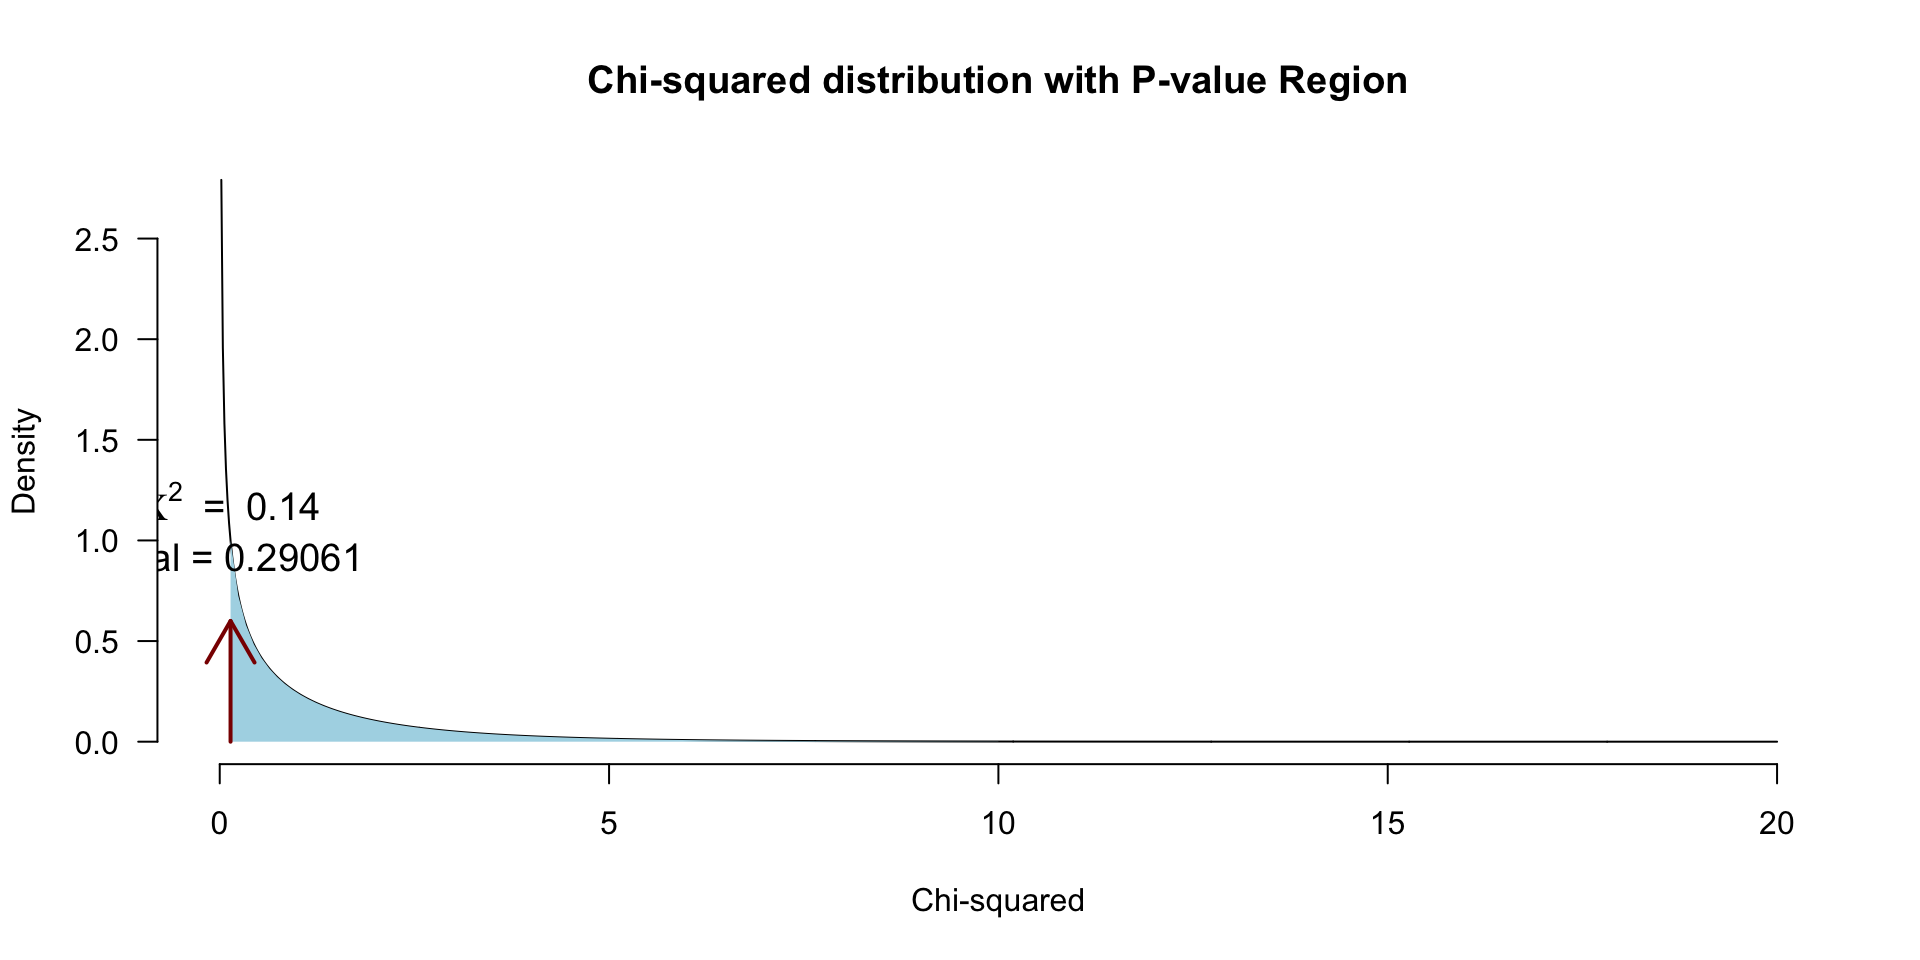
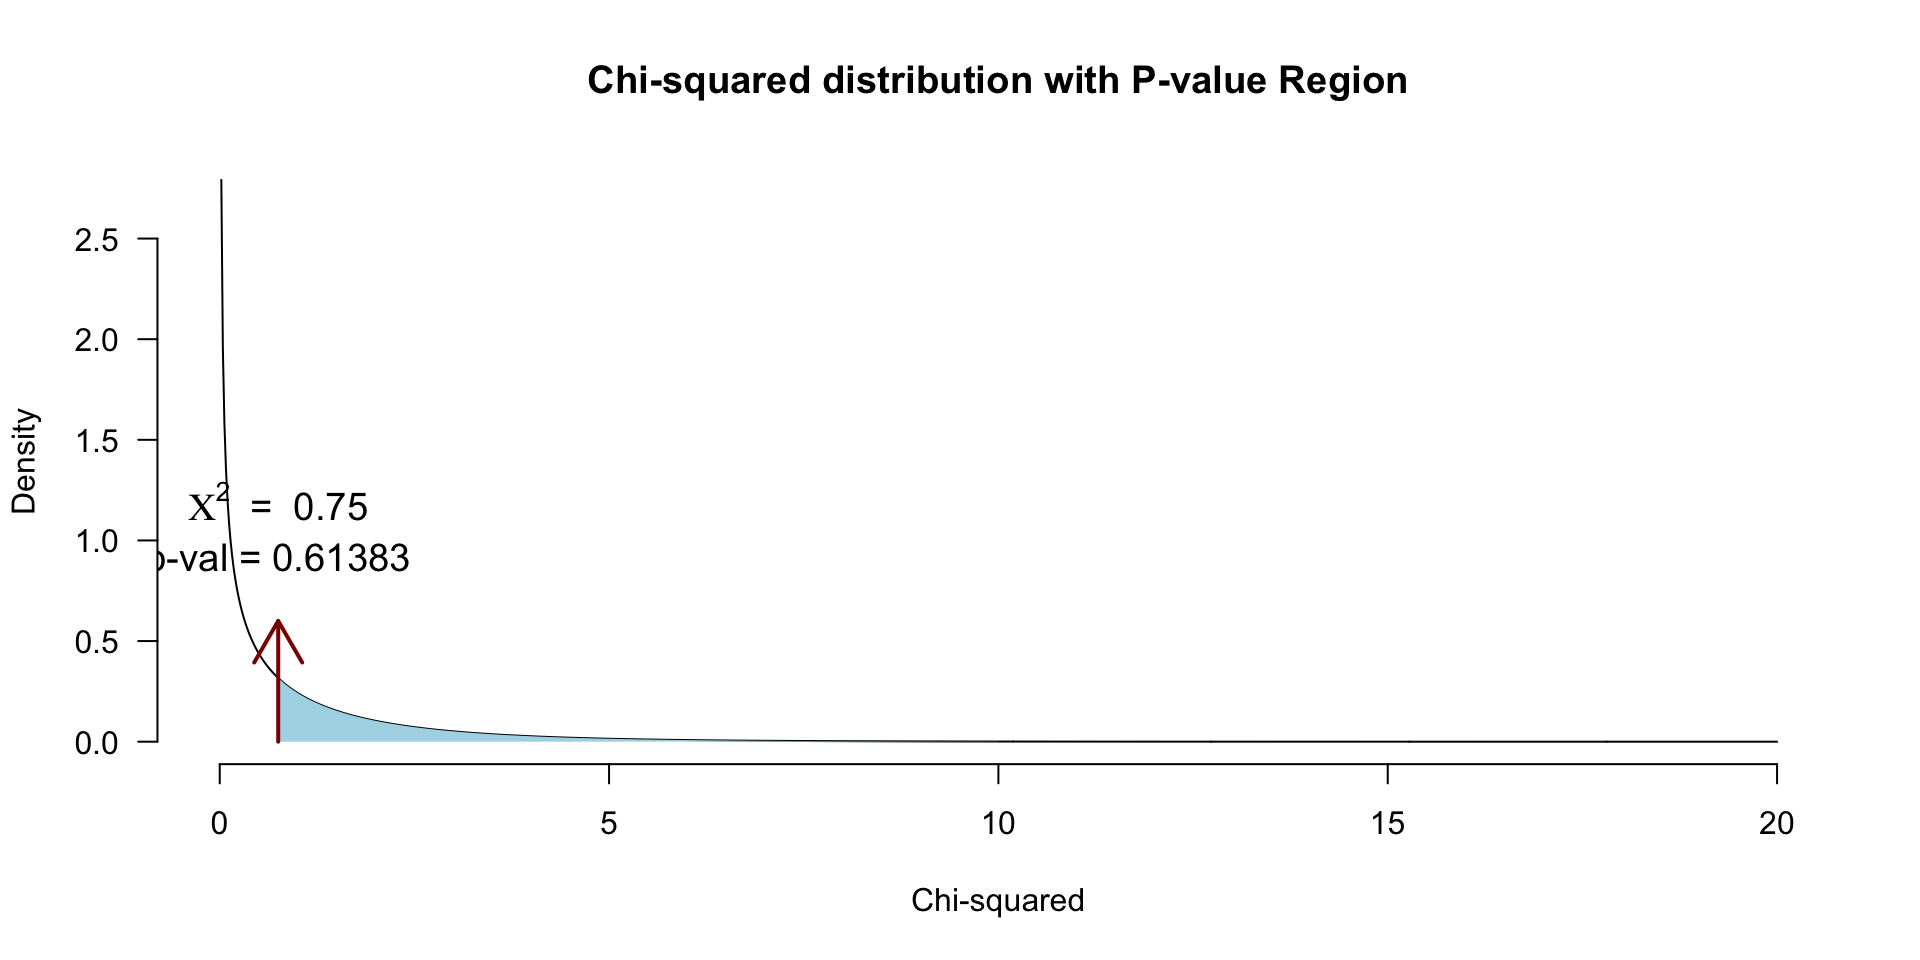
updte with data

Changed region(s): [[0.0625, 0.5, 0.2188, 0.7812]]

diff --git a/SSR/2024/16. chi_squared_test/16. chi_squared_test.slide.html b/SSR/2024/16. chi_squared_test/16. chi_squared_test.slide.html
@@ -486,8 +486,8 @@ Sharon Kinkenberg &amp; Johnny van Doorn
 <div class="cell">
 <div class="cell-output-display">
 
-<div class="datatables html-widget html-fill-item" id="htmlwidget-256e02cc640651b333cf" style="width:100%;height:auto;"></div>
-<script type="application/json" data-for="htmlwidget-256e02cc640651b333cf">{"x":{"filter":"none","vertical":false,"data":[["1","2","3","4","5"],["Dogs","Cats","Other","Dogs","Other"],["Live","Digital","Digital","Live","Digital"],["Introvert","Introvert","Extrovert","Extrovert","Introvert"]],"container":"<table class=\"display\">\n  <thead>\n    <tr>\n      <th> <\/th>\n      <th>Animal<\/th>\n      <th>Lecture<\/th>\n      <th>Personality<\/th>\n    <\/tr>\n  <\/thead>\n<\/table>","options":{"columnDefs":[{"orderable":false,"targets":0},{"name":" ","targets":0},{"name":"Animal","targets":1},{"name":"Lecture","targets":2},{"name":"Personality","targets":3}],"order":[],"autoWidth":false,"orderClasses":false}},"evals":[],"jsHooks":[]}</script>
+<div class="datatables html-widget html-fill-item" id="htmlwidget-37dd03dca93cd56a21a1" style="width:100%;height:auto;"></div>
+<script type="application/json" data-for="htmlwidget-37dd03dca93cd56a21a1">{"x":{"filter":"none","vertical":false,"data":[["1","2","3","4","5","6","7","8","9","10","11","12","13","14","15","16","17","18","19","20","21","22","23","24","25","26","27","28","29","30","31","32","33","34","35","36","37","38","39","40","41","42","43","44","45","46","47","48","49","50","51","52","53","54","55","56","57","58","59","60","61","62","63","64","65","66","67","68","69","70","71","72","73","74","75","76","77","78","79","80","81","82","83","84","85","86","87","88","89","90","91","92","93","94","95","96","97","98","99","100","101","102"],["Dogs","Other","Cats","Dogs","Dogs","Cats","Dogs","Dogs","Dogs","Other","Dogs","Cats","Dogs","Cats","Cats","Cats","Cats","Cats","Dogs","Cats","Cats","Cats","Dogs","Dogs","Dogs","Dogs","Dogs","Dogs","Dogs","Cats","Cats","Dogs","Cats","Cats","Cats","Cats","Cats","Cats","Dogs","Dogs","Cats","Dogs","Cats","Dogs","Other","Cats","Cats","Dogs","Dogs","Cats","Cats","Cats","Dogs","Cats","Dogs","Cats","Cats","Cats","Dogs","Dogs","Dogs","Cats","Dogs","Cats","Dogs","Other","Cats","Other","Cats","Cats","Dogs","Cats","Dogs","Cats","Dogs","Dogs","Dogs","Dogs","Other","Dogs","Cats","Dogs","Dogs","Cats","Dogs","Dogs","Cats","Dogs","Dogs","Dogs","Cats","Cats","Cats","Cats","Dogs","Dogs","Cats","Cats","Dogs","Other","Dogs","Dogs"],["Live","Live","Live","Live","Live","Live","Live","Live","Live","Live","Live","Live","Live","Live","Live","Live","Digital","Digital","Live","Live","Digital","Live","Live","Live","Live","Live","Live","Digital","Live","Live","Live","Digital","Live","Live","Live","Live","Digital","Live","Digital","Digital","Live","Digital","Live","Live","Live","Digital","Live","Digital","Digital","Digital","Digital","Digital","Live","Live","Digital","Live","Digital","Digital","Digital","Live","Digital","Live","Live","Live","Live","Live","Digital","Digital","Digital","Live","Digital","Digital","Digital","Live","Live","Digital","Digital","Live","Live","Live","Live","Digital","Digital","Digital","Digital","Digital","Digital","Live","Digital","Digital","Digital","Digital","Digital","Live","Digital","Digital","Live","Digital","Digital","Digital","Digital","Digital"],["Introvert","Introvert","Introvert","Extrovert","Introvert","Introvert","Introvert","Extrovert","Extrovert","Extrovert","Extrovert","Introvert","Extrovert","Extrovert","Introvert","Introvert","Introvert","Extrovert","Extrovert","Introvert","Introvert","Introvert","Introvert","Introvert","Extrovert","Introvert","Extrovert","Introvert","Introvert","Introvert","Introvert","Introvert","Introvert","Introvert","Extrovert","Introvert","Introvert","Introvert","Extrovert","Extrovert","Extrovert","Extrovert","Introvert","Introvert","Extrovert","Introvert","Extrovert","Introvert","Extrovert","Introvert","Extrovert","Introvert","Extrovert","Introvert","Extrovert","Introvert","Extrovert","Introvert","Extrovert","Extrovert","Introvert","Introvert","Extrovert","Introvert","Introvert","Introvert","Extrovert","Introvert","Introvert","Extrovert","Introvert","Introvert","Introvert","Extrovert","Introvert","Extrovert","Extrovert","Introvert","Extrovert","Introvert","Extrovert","Introvert","Introvert","Extrovert","Introvert","Extrovert","Extrovert","Introvert","Extrovert","Extrovert","Extrovert","Introvert","Introvert","Introvert","Introvert","Extrovert","Extrovert","Introvert","Extrovert","Extrovert","Introvert","Extrovert"]],"container":"<table class=\"display\">\n  <thead>\n    <tr>\n      <th> <\/th>\n      <th>Animal<\/th>\n      <th>Lecture<\/th>\n      <th>Personality<\/th>\n    <\/tr>\n  <\/thead>\n<\/table>","options":{"columnDefs":[{"orderable":false,"targets":0},{"name":" ","targets":0},{"name":"Animal","targets":1},{"name":"Lecture","targets":2},{"name":"Personality","targets":3}],"order":[],"autoWidth":false,"orderClasses":false}},"evals":[],"jsHooks":[]}</script>
 </div>
 </div>
 </small><p><small></small></p>
@@ -500,11 +500,11 @@ Sharon Kinkenberg &amp; Johnny van Doorn
 <div class="cell-output cell-output-stdout">
 <pre><code>         Personality
 Lecture   Extrovert Introvert
-  Digital         1         2
-  Live            1         1</code></pre>
+  Digital        22        24
+  Live           22        34</code></pre>
 </div>
 </div>
-<p><span class="math inline">\(\text{observed}_{ij} = \begin{pmatrix} 1 &amp; 2 \\ 1 &amp; 1 \\ \end{pmatrix}\)</span></p>
+<p><span class="math inline">\(\text{observed}_{ij} = \begin{pmatrix} 22 &amp; 24 \\ 22 &amp; 34 \\ \end{pmatrix}\)</span></p>
 </section>
 <section id="calculating-the-model" class="slide level2 subsection">
 <h2>Calculating the model</h2>
@@ -520,9 +520,9 @@ Lecture   Extrovert Introvert
 <div class="cell-output cell-output-stdout">
 <pre><code>         Personality
 Lecture   Extrovert Introvert Sum
-  Digital         1         2   3
-  Live            1         1   2
-  Sum             2         3   5</code></pre>
+  Digital        22        24  46
+  Live           22        34  56
+  Sum            44        58 102</code></pre>
 </div>
 </div>
 </section>
@@ -541,11 +541,11 @@ Lecture   Extrovert Introvert Sum
 <div class="cell-output cell-output-stdout">
 <pre><code>         Personality
 Lecture   Extrovert Introvert
-  Digital       1.2       1.8
-  Live          0.8       1.2</code></pre>
+  Digital  19.84314  26.15686
+  Live     24.15686  31.84314</code></pre>
 </div>
 </div>
-<p><span class="math inline">\(\text{model}_{ij} = \begin{pmatrix} 1.2 &amp; 1.8 \\ 0.8 &amp; 1.2 \\ \end{pmatrix}\)</span></p>
+<p><span class="math inline">\(\text{model}_{ij} = \begin{pmatrix} 19.8431373 &amp; 26.1568627 \\ 24.1568627 &amp; 31.8431373 \\ \end{pmatrix}\)</span></p>
 </section>
 <section id="error-observed---model" class="slide level2 subsection">
 <h2>Error = Observed - Model</h2>
@@ -554,22 +554,22 @@ Lecture   Extrovert Introvert
 <div class="cell-output cell-output-stdout">
 <pre><code>         Personality
 Lecture   Extrovert Introvert
-  Digital         1         2
-  Live            1         1</code></pre>
+  Digital        22        24
+  Live           22        34</code></pre>
 </div>
 <div class="sourceCode cell-code" id="cb9"><pre class="sourceCode numberSource r number-lines code-with-copy"><code class="sourceCode r"><span id="cb9-1"><a href="#cb9-1"></a>modelPredictions</span></code><button title="Copy to Clipboard" class="code-copy-button"><i class="bi"></i></button></pre></div>
 <div class="cell-output cell-output-stdout">
 <pre><code>         Personality
 Lecture   Extrovert Introvert
-  Digital       1.2       1.8
-  Live          0.8       1.2</code></pre>
+  Digital  19.84314  26.15686
+  Live     24.15686  31.84314</code></pre>
 </div>
 <div class="sourceCode cell-code" id="cb11"><pre class="sourceCode numberSource r number-lines code-with-copy"><code class="sourceCode r"><span id="cb11-1"><a href="#cb11-1"></a>observed <span class="sc">-</span> modelPredictions</span></code><button title="Copy to Clipboard" class="code-copy-button"><i class="bi"></i></button></pre></div>
 <div class="cell-output cell-output-stdout">
 <pre><code>         Personality
 Lecture   Extrovert Introvert
-  Digital      -0.2       0.2
-  Live          0.2      -0.2</code></pre>
+  Digital  2.156863 -2.156863
+  Live    -2.156863  2.156863</code></pre>
 </div>
 </div>
 </section>
@@ -581,7 +581,7 @@ Lecture   Extrovert Introvert
 <span id="cb13-2"><a href="#cb13-2"></a>chi.squared <span class="ot">&lt;-</span> <span class="fu">sum</span>((observed <span class="sc">-</span> modelPredictions)<span class="sc">^</span><span class="dv">2</span> <span class="sc">/</span> modelPredictions)</span>
 <span id="cb13-3"><a href="#cb13-3"></a>chi.squared</span></code><button title="Copy to Clipboard" class="code-copy-button"><i class="bi"></i></button></pre></div>
 <div class="cell-output cell-output-stdout">
-<pre><code>[1] 0.1388889</code></pre>
+<pre><code>[1] 0.7509638</code></pre>
 </div>
 </div>
 </section>
@@ -623,7 +623,7 @@ Lecture   Extrovert Introvert
 </section>
 <section id="yatess-correction-output" class="slide level2 subsection output-location-slide"><h2>Yates’s correction</h2><div class="cell output-location-slide">
 <div class="cell-output cell-output-stdout">
-<pre><code>[1] 0.3125</code></pre>
+<pre><code>[1] 0.4431462</code></pre>
 </div>
 <div class="sourceCode cell-code" id="cb17"><pre class="sourceCode numberSource r number-lines code-with-copy"><code class="sourceCode r"><span id="cb17-1"><a href="#cb17-1"></a><span class="co"># visualize::visualize.chisq(chi.squared.yates, df, section='upper')</span></span></code><button title="Copy to Clipboard" class="code-copy-button"><i class="bi"></i></button></pre></div>
 </div></section><section id="standardized-residuals" class="slide level2 subsection">
@@ -634,8 +634,8 @@ Lecture   Extrovert Introvert
 <div class="cell-output cell-output-stdout">
 <pre><code>         Personality
 Lecture    Extrovert  Introvert
-  Digital -0.1825742  0.1490712
-  Live     0.2236068 -0.1825742</code></pre>
+  Digital  0.4841917 -0.4217253
+  Live    -0.4388360  0.3822210</code></pre>
 </div>
 </div>
 </section>
@@ -647,12 +647,12 @@ Lecture    Extrovert  Introvert
 <div class="cell-output cell-output-stdout">
 <pre><code>         Personality
 Lecture   Extrovert Introvert
-  Digital         1         2
-  Live            1         1</code></pre>
+  Digital        22        24
+  Live           22        34</code></pre>
 </div>
 </div>
 <p><span class="math inline">\(\begin{pmatrix} a &amp; b \\ c &amp; d \\ \end{pmatrix}\)</span></p>
-<p><span class="math inline">\(OR = \frac{a \times d}{b \times c} = \frac{1 \times 1}{2 \times 1} = 0.5\)</span></p>
+<p><span class="math inline">\(OR = \frac{a \times d}{b \times c} = \frac{22 \times 34}{24 \times 22} = 1.4166667\)</span></p>
 </section>
 <section id="odds" class="slide level2">
 <h2>Odds</h2>
@@ -660,16 +660,16 @@ Lecture   Extrovert Introvert
 <div class="cell-output cell-output-stdout">
 <pre><code>         Personality
 Lecture   Extrovert Introvert
-  Digital         1         2
-  Live            1         1</code></pre>
+  Digital        22        24
+  Live           22        34</code></pre>
 </div>
 </div>
 <p>The extrovert/introvert ratio for digital and live audiences:</p>
 <ul>
-<li>Digital <span class="math inline">\(\text{Odds}_{EI} = \frac{ 1 }{ 2 }\)</span> = 0.5</li>
-<li>Live <span class="math inline">\(\text{Odds}_{EI} = \frac{ 1 }{ 1 }\)</span> = 1</li>
+<li>Digital <span class="math inline">\(\text{Odds}_{EI} = \frac{ 22 }{ 24 }\)</span> = 0.9166667</li>
+<li>Live <span class="math inline">\(\text{Odds}_{EI} = \frac{ 22 }{ 34 }\)</span> = 0.6470588</li>
 </ul>
-<p>In the digital responses, there are +- 0.5 times as many extroverts than introverts. In the live responses, there are +- 1 times as many extroverts than introverts.</p>
+<p>In the digital responses, there are +- 0.92 times as many extroverts than introverts. In the live responses, there are +- 0.65 times as many extroverts than introverts.</p>
 </section>
 <section id="odds-1" class="slide level2">
 <h2>Odds</h2>
@@ -677,22 +677,22 @@ Lecture   Extrovert Introvert
 <div class="cell-output cell-output-stdout">
 <pre><code>         Personality
 Lecture   Extrovert Introvert
-  Digital         1         2
-  Live            1         1</code></pre>
+  Digital        22        24
+  Live           22        34</code></pre>
 </div>
 </div>
 <p>Alternatively, we can look at the ratio’s of digital/live for extroverts and introverts:</p>
 <ul>
-<li>Extrovert <span class="math inline">\(\text{Odds}_{DL} = \frac{ 1 }{ 1 }\)</span> = 1</li>
-<li>Introvert <span class="math inline">\(\text{Odds}_{DL} = \frac{ 2 }{ 1 }\)</span> = 2</li>
+<li>Extrovert <span class="math inline">\(\text{Odds}_{DL} = \frac{ 22 }{ 22 }\)</span> = 1</li>
+<li>Introvert <span class="math inline">\(\text{Odds}_{DL} = \frac{ 24 }{ 34 }\)</span> = 0.7058824</li>
 </ul>
-<p>For the extroverts, there are +- 1 times as many digital viewers than live viewers. For the introverts, there are +- 2 times as many digital viewers than live viewers.</p>
+<p>For the extroverts, there are +- 1 times as many digital viewers than live viewers. For the introverts, there are +- 0.71 times as many digital viewers than live viewers.</p>
 </section>
 <section id="odds-ratio" class="slide level2">
 <h2>Odds ratio</h2>
 <p>Is the ratio of these odds.</p>
-<p><span class="math inline">\(OR = \frac{\text{digital}}{\text{live}} = \frac{0.5}{1} = \frac{\text{extrovert}}{\text{introvert}} = \frac{1}{2} = 0.5\)</span></p>
-<p>For this data, extroverts were approximately 0.5 times more likely to watch digitally, compared to introverts. The odds ratio also accounts for the scores in both conditions—watching digitally and watching live—by comparing the odds of watching digitally to live viewing across both personality types.</p>
+<p><span class="math inline">\(OR = \frac{\text{digital}}{\text{live}} = \frac{0.9166667}{0.6470588} = \frac{\text{extrovert}}{\text{introvert}} = \frac{1}{0.7058824} = 1.4166667\)</span></p>
+<p>For this data, extroverts were approximately 1.42 times more likely to watch digitally, compared to introverts. The odds ratio also accounts for the scores in both conditions—watching digitally and watching live—by comparing the odds of watching digitally to live viewing across both personality types.</p>
 <!-- Footer insert below -->
 </section></section>
 <section>
